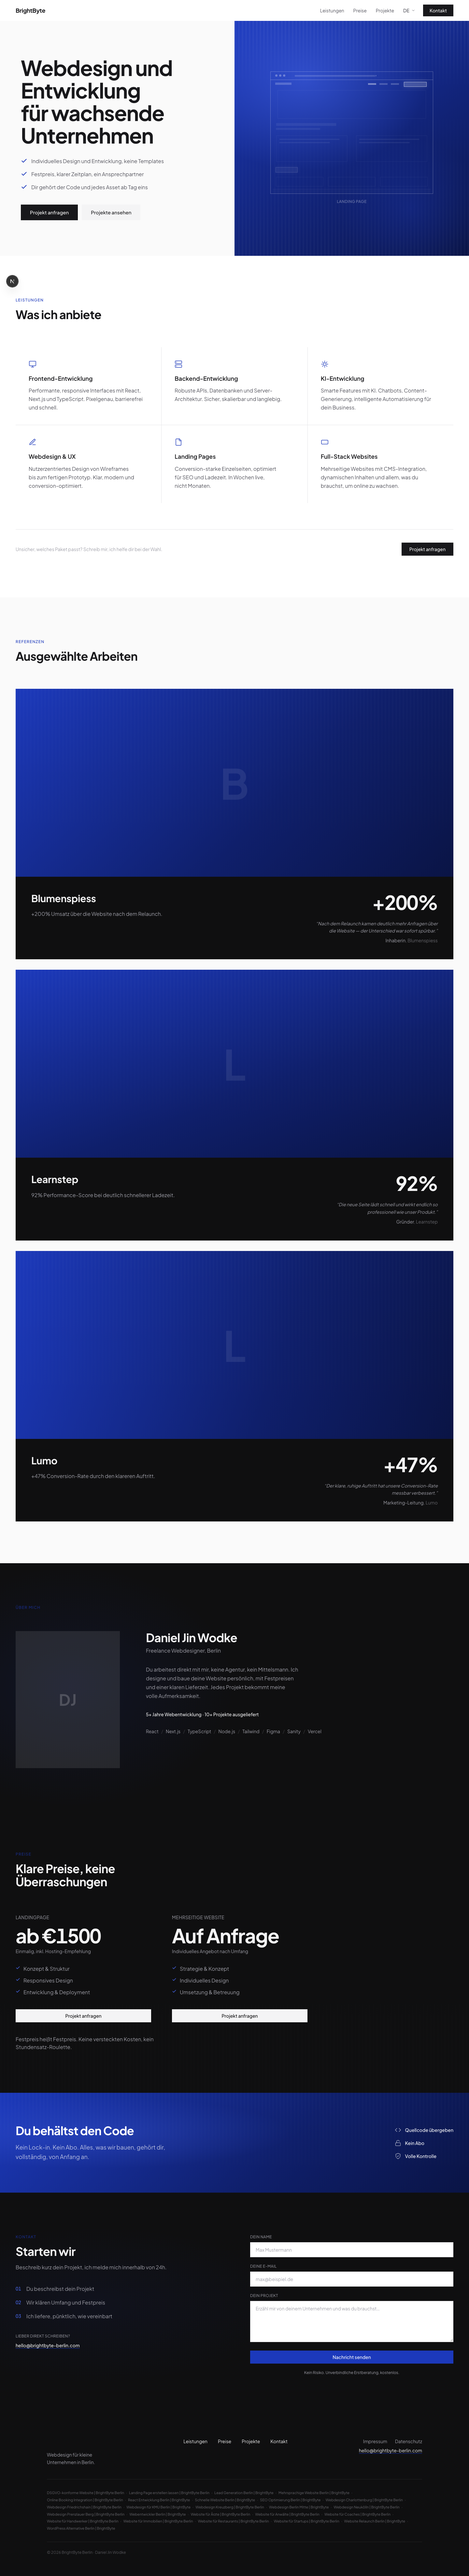
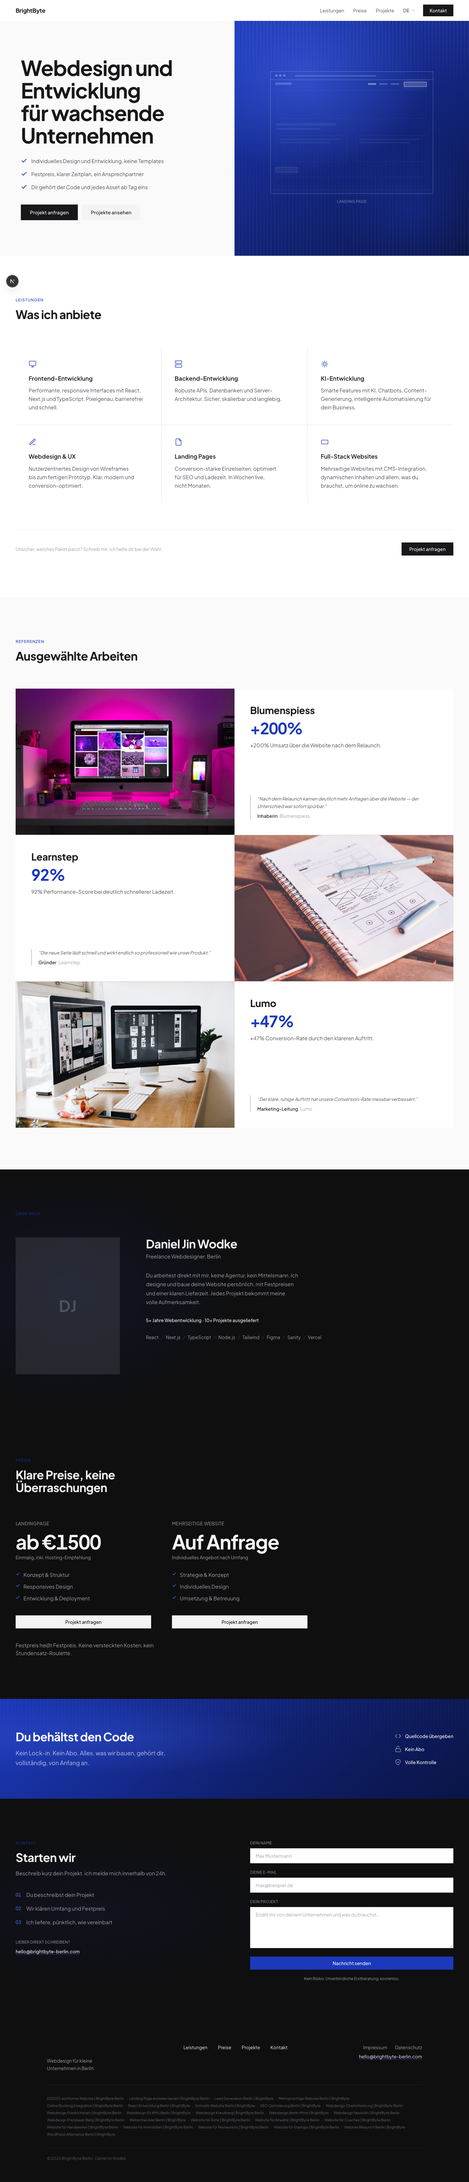
feat(projects): gap-px rows with stock photos, alternating layout
- Horizontal 2-col rows: image left/right alternating, text opposite
- Stock photos from Pexels as placeholders until Sanity images arrive
- gap-px bg-border technique matching the services grid
- Accent-colored metrics, italic testimonial quotes with border-l
- Sanity images take priority when available; stock is fallback
- Remove blinking cursor from hero wireframe (looked odd)

diff --git a/components/sections/ProjectsSection.tsx b/components/sections/ProjectsSection.tsx
@@ -1,19 +1,31 @@
 /**
- * components/sections/ProjectsSection.tsx — Stacked showcase (Apple/Linear style).
+ * components/sections/ProjectsSection.tsx — Projects: gap-px grid with stock images.
  *
- * Each project is a full-width dark card with a large image area and text below.
- * Projects stack vertically with generous spacing. Premium, not editorial.
- * Accent gradient placeholder when no image exists.
+ * Matches the site's design language: gap-px borders, eyebrow labels,
+ * clean typography. Each project is a horizontal row inside a bordered grid.
+ * Left: stock image (replaced with real screenshots later).
+ * Right: title, metric, outcome, testimonial.
+ *
+ * Stock photos from Pexels (free, no attribution required for web use).
+ * When real project screenshots land in Sanity, the stock images swap out.
  *
  * better-ui: image outlines at low opacity, optical alignment.
- * impeccable: every card is its own moment, generous whitespace.
  */
 import { useTranslations } from 'next-intl'
 import Image from 'next/image'
-import { Link } from '@/i18n/navigation'
 import { MotionSection } from '@/components/ui/MotionSection'
 import { urlFor } from '@/lib/sanity/image'
 import type { PROJECTS_QUERY_RESULT, TESTIMONIALS_QUERY_RESULT } from '@/sanity.types'
+
+/** Stock photos keyed by project title (lowercase). Pexels, royalty-free. */
+const STOCK_PHOTOS: Record<string, string> = {
+  blumenspiess:
+    'https://images.pexels.com/photos/1779487/pexels-photo-1779487.jpeg?auto=compress&cs=tinysrgb&w=960&h=640&fit=crop',
+  learnstep:
+    'https://images.pexels.com/photos/196644/pexels-photo-196644.jpeg?auto=compress&cs=tinysrgb&w=960&h=640&fit=crop',
+  lumo:
+    'https://images.pexels.com/photos/326503/pexels-photo-326503.jpeg?auto=compress&cs=tinysrgb&w=960&h=640&fit=crop',
+}
 
 interface ProjectsSectionProps {
   projects: PROJECTS_QUERY_RESULT
@@ -21,15 +33,22 @@ interface ProjectsSectionProps {
   locale: string
 }
 
-function ProjectsSectionInner({ projects, testimonials, locale }: ProjectsSectionProps) {
+function ProjectsSectionInner({
+  projects,
+  testimonials,
+}: ProjectsSectionProps) {
   const t = useTranslations('Projects')
   const tWork = useTranslations('Work')
   if (!projects || projects.length === 0) return null
 
-  const testimonialByCompany = new Map<string, TESTIMONIALS_QUERY_RESULT[number]>()
+  const testimonialByCompany = new Map<
+    string,
+    TESTIMONIALS_QUERY_RESULT[number]
+  >()
   if (testimonials) {
     for (const test of testimonials) {
-      if (test.company) testimonialByCompany.set(test.company.toLowerCase(), test)
+      if (test.company)
+        testimonialByCompany.set(test.company.toLowerCase(), test)
     }
   }
 
@@ -44,144 +63,119 @@ function ProjectsSectionInner({ projects, testimonials, locale }: ProjectsSectio
           {t('heading')}
         </h2>
 
-        {/* Stacked project cards */}
-        <div className="flex flex-col gap-6 md:gap-8">
+        {/* Project rows: gap-px grid for 1px borders */}
+        <div className="flex flex-col gap-px bg-border">
           {projects.map((project, index) => {
             const matched = project.title
               ? testimonialByCompany.get(project.title.toLowerCase())
               : undefined
-            const metricMatch = project.outcomeNote?.match(/[+\-]?\d[\d.,]*\s?%?/)
+            const metricMatch =
+              project.outcomeNote?.match(/[+\-]?\d[\d.,]*\s?%?/)
             const metric = metricMatch ? metricMatch[0].trim() : null
-            const hasImage = !!project.image?.asset
-            const slug = project.slug?.current
-            const canLink = project.hasCaseStudy && slug
-            // Vary gradient angle per card so placeholders don't look identical
-            const gradientAngles = [135, 160, 110]
-            const angle = gradientAngles[index % gradientAngles.length]
+            const titleLower = (project.title ?? '').toLowerCase()
+
+            // Use Sanity image if available, otherwise stock photo
+            const sanityUrl = project.image?.asset
+              ? urlFor(project.image)
+                  .width(960)
+                  .height(640)
+                  .fit('crop')
+                  .auto('format')
+                  .url()
+              : null
+            const stockUrl = STOCK_PHOTOS[titleLower]
+            const imageUrl = sanityUrl ?? stockUrl
+            const isEven = index % 2 === 1
 
             return (
-              <article
+              <div
                 key={project._id}
-                className="bg-surface-dark overflow-hidden"
-                data-testid="project-card"
+                className="bg-surface grid grid-cols-1 md:grid-cols-2"
+                data-testid="project-row"
               >
-                {/* Image area */}
-                <div className="relative aspect-[16/9] md:aspect-[21/9] overflow-hidden">
-                  {hasImage ? (
-                    <Image
-                      src={urlFor(project.image!)
-                        .width(1440)
-                        .height(600)
-                        .fit('crop')
-                        .auto('format')
-                        .url()}
-                      alt={project.title ?? ''}
-                      fill
-                      className="object-cover"
-                      sizes="(max-width: 768px) 100vw, 90vw"
-                      style={{
-                        outline: '1px solid rgba(255,255,255,0.1)',
-                        outlineOffset: '-1px',
-                      }}
-                    />
-                  ) : (
-                    <div
-                      className="absolute inset-0"
-                      aria-hidden="true"
-                      style={{
-                        background:
-                          `linear-gradient(${angle}deg, var(--color-accent) 0%, #0F1F6B 60%, #0A1445 100%)`,
-                      }}
-                    >
-                      {/* Stripe texture overlay */}
-                      <div
-                        className="absolute inset-0 opacity-15"
+                {/* Image */}
+                <div
+                  className={`relative aspect-[3/2] overflow-hidden bg-surface-muted${isEven ? ' md:order-2' : ''}`}
+                >
+                  {imageUrl ? (
+                    sanityUrl ? (
+                      <Image
+                        src={sanityUrl}
+                        alt={project.title ?? ''}
+                        fill
+                        className="object-cover"
+                        sizes="(max-width: 768px) 100vw, 50vw"
                         style={{
-                          maskImage:
-                            'repeating-linear-gradient(90deg, black, black 5px, transparent 5px, transparent 11px)',
-                          WebkitMaskImage:
-                            'repeating-linear-gradient(90deg, black, black 5px, transparent 5px, transparent 11px)',
-                          background:
-                            'linear-gradient(180deg, rgba(255,255,255,0.1) 0%, transparent 100%)',
+                          outline: '1px solid rgba(0,0,0,0.08)',
+                          outlineOffset: '-1px',
                         }}
                       />
-                      {/* Large initial letter */}
-                      <div className="absolute inset-0 flex items-center justify-center">
-                        <span className="text-[6rem] md:text-[8rem] font-bold text-white/[0.08] select-none leading-none">
-                          {(project.title ?? '').charAt(0).toUpperCase()}
-                        </span>
-                      </div>
+                    ) : (
+                      /* eslint-disable-next-line @next/next/no-img-element */
+                      <img
+                        src={imageUrl}
+                        alt={project.title ?? ''}
+                        className="absolute inset-0 w-full h-full object-cover"
+                        loading="lazy"
+                        style={{
+                          outline: '1px solid rgba(0,0,0,0.08)',
+                          outlineOffset: '-1px',
+                        }}
+                      />
+                    )
+                  ) : (
+                    <div
+                      className="w-full h-full flex items-center justify-center"
+                      aria-hidden="true"
+                    >
+                      <span className="text-6xl font-bold text-border select-none">
+                        {titleLower.charAt(0).toUpperCase()}
+                      </span>
                     </div>
                   )}
                 </div>
 
-                {/* Content below image */}
-                <div className="p-8 md:p-10 lg:p-12">
-                  <div className="flex flex-col md:flex-row md:items-start md:justify-between gap-6 md:gap-16">
-                    {/* Left: title + description */}
-                    <div className="flex-1 min-w-0">
-                      <h3 className="text-2xl md:text-3xl font-bold text-on-dark leading-tight tracking-[-0.01em] mb-4">
-                        {project.title}
-                      </h3>
-                      {project.outcomeNote && (
-                        <p className="text-base text-muted-on-dark leading-relaxed max-w-lg text-pretty">
-                          {project.outcomeNote}
-                        </p>
-                      )}
-                      {canLink && (
-                        <Link
-                          href={`/work/${slug}`}
-                          locale={locale as 'de' | 'en'}
-                          className="inline-flex items-center gap-1.5 text-sm font-medium text-on-dark mt-6 hover:text-accent transition-colors [transition-duration:150ms]"
-                        >
-                          {tWork('eyebrow')}
-                          <svg
-                            width="14"
-                            height="14"
-                            viewBox="0 0 24 24"
-                            fill="none"
-                            stroke="currentColor"
-                            strokeWidth="2"
-                            strokeLinecap="round"
-                            strokeLinejoin="round"
-                            className="flex-shrink-0"
-                            aria-hidden="true"
-                          >
-                            <path d="M5 12h14" />
-                            <path d="m12 5 7 7-7 7" />
-                          </svg>
-                        </Link>
-                      )}
-                    </div>
+                {/* Content */}
+                <div
+                  className={`flex flex-col justify-center p-8 md:p-12 lg:p-16${isEven ? ' md:order-1' : ''}`}
+                >
+                  <h3 className="text-2xl md:text-3xl font-bold text-primary leading-tight tracking-[-0.01em] mb-3">
+                    {project.title}
+                  </h3>
 
-                    {/* Right: metric + quote */}
-                    <div className="md:text-right md:max-w-sm flex-shrink-0">
-                      {metric && (
-                        <p className="text-5xl md:text-6xl font-bold text-on-dark tabular-nums tracking-[-0.03em] mb-2">
-                          {metric}
-                        </p>
-                      )}
-                      {matched?.quote && (
-                        <div className="mt-4 md:mt-6">
-                          <p className="text-sm text-muted-on-dark leading-relaxed text-pretty italic">
-                            &ldquo;{matched.quote}&rdquo;
+                  {metric && (
+                    <p className="text-4xl md:text-5xl font-bold text-accent tabular-nums tracking-[-0.03em] mb-4">
+                      {metric}
+                    </p>
+                  )}
+
+                  {project.outcomeNote && (
+                    <p className="text-base text-secondary leading-relaxed max-w-md text-pretty mb-6">
+                      {project.outcomeNote}
+                    </p>
+                  )}
+
+                  {matched?.quote && (
+                    <blockquote className="border-l-2 border-accent/30 pl-5 mt-auto">
+                      <p className="text-sm text-secondary leading-relaxed text-pretty italic">
+                        &ldquo;{matched.quote}&rdquo;
+                      </p>
+                      {matched.author && (
+                        <footer className="mt-2">
+                          <p className="text-sm text-primary font-medium">
+                            {matched.author}
+                            {matched.company && (
+                              <span className="text-muted font-normal">
+                                , {matched.company}
+                              </span>
+                            )}
                           </p>
-                          {matched.author && (
-                            <p className="text-sm text-muted-on-dark mt-2">
-                              {matched.author}
-                              {matched.company && (
-                                <span className="text-muted-on-dark/60">
-                                  , {matched.company}
-                                </span>
-                              )}
-                            </p>
-                          )}
-                        </div>
+                        </footer>
                       )}
-                    </div>
-                  </div>
+                    </blockquote>
+                  )}
                 </div>
-              </article>
+              </div>
             )
           })}
         </div>

diff --git a/components/sections/HeroSection.tsx b/components/sections/HeroSection.tsx
@@ -125,7 +125,6 @@ function AnimatedWireframe() {
   const refs = useRef<Map<string, HTMLDivElement>>(new Map())
   const [layoutIdx, setLayoutIdx] = useState(0)
   const [ready, setReady] = useState(false)
-  const [showCursor, setShowCursor] = useState(false)
   const morphTlRef = useRef<gsap.core.Timeline | null>(null)
 
   // Enhancement 2: mouse parallax tilt
@@ -190,10 +189,8 @@ function AnimatedWireframe() {
         }
       }
 
-      // Enhancement 3: show blinking cursor after build
       tl.then(() => {
         setReady(true)
-        setShowCursor(true)
       })
     }, 800)
     return () => clearTimeout(timer)
@@ -275,16 +272,8 @@ function AnimatedWireframe() {
             <div data-dot className="w-[7px] h-[7px] rounded-full bg-white/30" style={{ transform: 'scale(0)' }} />
           </div>
 
-          {/* URL bar + blinking cursor (Enhancement 3) */}
-          <div className="absolute left-[15%] right-[35%] top-[2.8%] h-[1.5%] flex items-center" style={{ opacity: 0 }} ref={setElRef('url')}>
-            <div className="w-full h-full bg-white/15" />
-            {showCursor && (
-              <div
-                className="w-[1px] h-[70%] bg-white/60 ml-[2px] flex-shrink-0"
-                style={{ animation: 'wire-cursor 1s step-end infinite' }}
-              />
-            )}
-          </div>
+          {/* URL bar */}
+          <div className="absolute left-[15%] right-[35%] top-[2.8%] h-[1.5%] bg-white/15" style={{ opacity: 0 }} ref={setElRef('url')} />
 
           {/* Wireframe elements (all from layout 0, GSAP morphs positions) */}
           {initialEls.map(el => (

diff --git a/app/globals.css b/app/globals.css
@@ -108,12 +108,6 @@
   background-size: 18px 18px;
 }
 
-/* Hero wireframe: blinking cursor in URL bar */
-@keyframes wire-cursor {
-  0%, 100% { opacity: 1; }
-  50% { opacity: 0; }
-}
-
 /* Hero wireframe: layout label fade in/out */
 @keyframes wire-label {
   0% { opacity: 0; transform: translateY(4px); }
